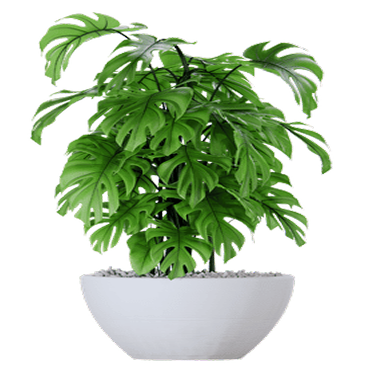
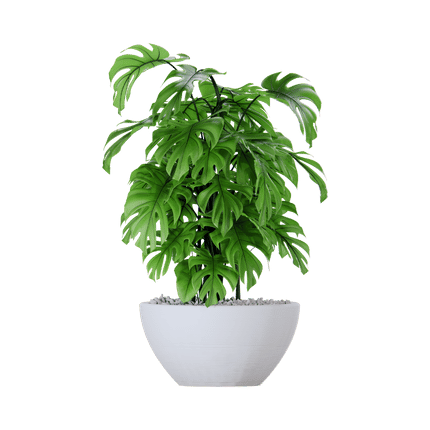
card added

diff --git a/src/Pages/Home.jsx b/src/Pages/Home.jsx
@@ -3,6 +3,10 @@ import { ChevronDown } from 'lucide-react';
 import { UserContext } from "../Context/UserContext";
 import { useContext } from "react";
 import Card from "../Components/Card";
+import Plant from "../assets/plant.png"
+import Plant2 from "../assets/plant-2.png"
+import Plant3 from "../assets/plant-3.png"
+
 
 function Home() {
     const { user } = useContext(UserContext);
@@ -65,11 +69,11 @@ function Home() {
                 </Accordion>
             </div>
 
-            <div className="w-full py-[200px] mt-20 bg-[#1B2316] flex items-center justify-center">
+            <div className="w-full py-[250px] mt-20 bg-[#1B2316] flex items-center justify-center">
                 <div className="grid md:grid-cols-2 xl:grid-cols-3 gap-y-20 xl:gap-y-32 gap-x-5">
-                    <Card />
-                    <Card />
-                    <Card />
+                    <Card img={Plant} />
+                    <Card img={Plant2} />
+                    <Card img={Plant3} />
                 </div>
             </div>
         </section>

diff --git a/src/Components/Card.jsx b/src/Components/Card.jsx
@@ -1,12 +1,11 @@
 import Bag from "../assets/bag.png"
-import Plant from "../assets/plant.png"
 
-export default function Card() {
+export default function Card({ img }) {
 
     return (
         <div className="w-[350px] 2xl:w-[420px] h-[450px] 2xl:h-[520px] card bg-no-repeat bg-center bg-contain p-10 flex items-center gap-3 justify-end">
-            <div className="w-[300px] 2xl:w-[375px] h-[300px] 2xl:h-[375px] flex items-center justify-center">
-                <img src={Plant} alt="" />
+            <div className="w-[300px] 2xl:w-[375px] h-[300px] 2xl:h-[375px] flex items-end justify-center">
+                <img className="w-full h-full object-bottom object-contain" src={img} alt="" />
             </div>
             <div className="w-full">
                 <h3 className="text-[28px] md:text-[32px] xl:text-[38px] font-semibold xl:leading-[52px]">Calathea plant</h3>

diff --git a/src/Router/Router.jsx b/src/Router/Router.jsx
@@ -35,7 +35,7 @@ function App() {
     }
 
     return (
-        <main className="mx-auto relative">
+        <main className="">
             <Navbar />
             <div className="py-6 px-4 min-h-[80vh] relative">
                 <Routes>
